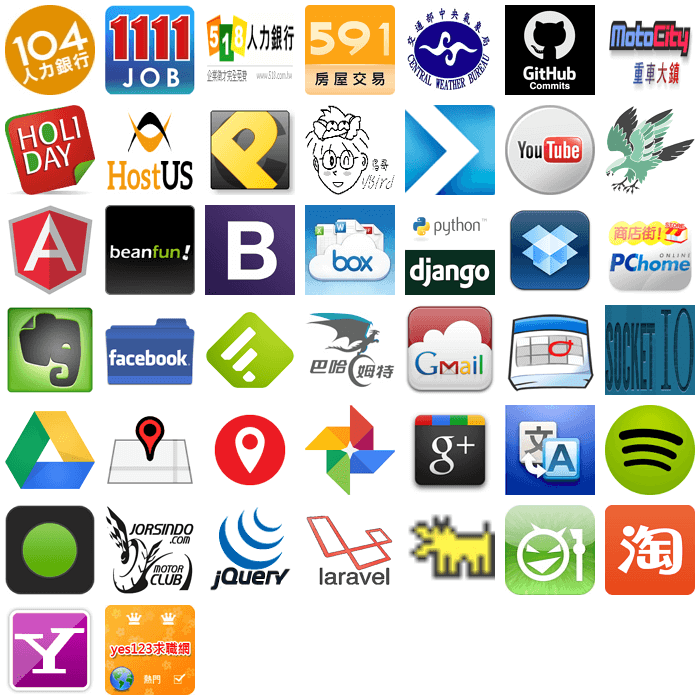
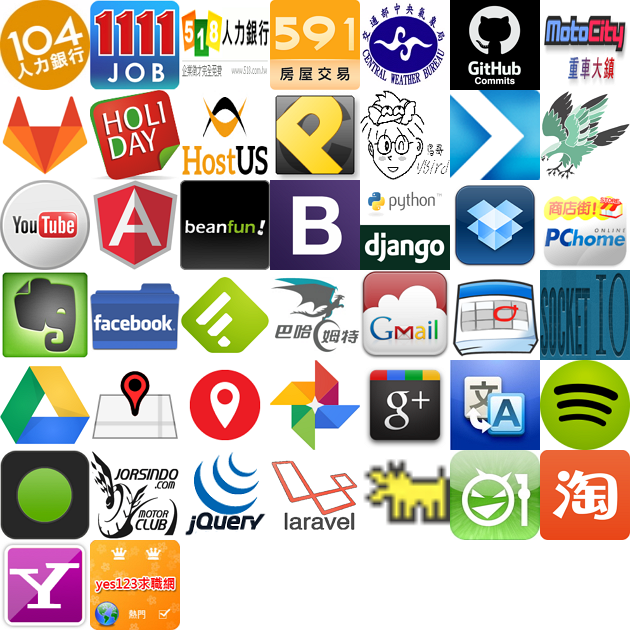
更新網址
css sprite
http://spritegen.website-performance.org/

diff --git a/css/icons.css b/css/icons.css
@@ -7,178 +7,177 @@
 }
 
 .sprite-104 {
-    background-position: -5px -5px;
+    background-position: 0 0;
 }
 
 .sprite-1111 {
-    background-position: -105px -5px;
+    background-position: -90px 0;
 }
 
 .sprite-518 {
-    background-position: -205px -5px;
+    background-position: -180px 0;
 }
 
 .sprite-591 {
-    background-position: -305px -5px;
+    background-position: -270px 0;
 }
 
 .sprite-CWB {
-    background-position: -405px -5px;
+    background-position: -360px 0;
 }
 
 .sprite-GitHub {
-    background-position: -505px -5px;
+    background-position: -450px 0;
+}
+
+.sprite-GitLab {
+    background-position: 0 -90px;
 }
 
 .sprite-Holiday {
-    background-position: -5px -105px;
+    background-position: -90px -90px;
 }
 
 .sprite-HostUS {
-    background-position: -105px -105px;
+    background-position: -180px -90px;
 }
 
 .sprite-PTT {
-    background-position: -205px -105px;
+    background-position: -270px -90px;
 }
 
 .sprite-VBird {
-    background-position: -305px -105px;
+    background-position: -360px -90px;
 }
 
 .sprite-VirusTotal {
-    background-position: -405px -105px;
+    background-position: -450px -90px;
 }
 
 .sprite-YouTube {
-    background-position: -505px -105px;
+    background-position: 0 -180px;
 }
 
 .sprite-angularjs {
-    background-position: -5px -205px;
+    background-position: -90px -180px;
 }
 
 .sprite-beanfun {
-    background-position: -105px -205px;
+    background-position: -180px -180px;
 }
 
 .sprite-bootstrap {
-    background-position: -205px -205px;
-}
-
-.sprite-box {
-    background-position: -305px -205px;
+    background-position: -270px -180px;
 }
 
 .sprite-django {
-    background-position: -405px -205px;
+    background-position: -360px -180px;
 }
 
 .sprite-dropbox {
-    background-position: -505px -205px;
+    background-position: -450px -180px;
 }
 
 .sprite-evernote {
-    background-position: -5px -305px;
+    background-position: 0 -270px;
 }
 
 .sprite-facebook {
-    background-position: -105px -305px;
+    background-position: -90px -270px;
 }
 
 .sprite-feedly {
-    background-position: -205px -305px;
+    background-position: -180px -270px;
 }
 
 .sprite-gamer {
-    background-position: -305px -305px;
+    background-position: -270px -270px;
 }
 
 .sprite-gmail {
-    background-position: -405px -305px;
+    background-position: -360px -270px;
 }
 
 .sprite-google-calendar {
-    background-position: -505px -305px;
+    background-position: -450px -270px;
 }
 
 .sprite-google-drive {
-    background-position: -5px -405px;
+    background-position: 0 -360px;
 }
 
 .sprite-google-map {
-    background-position: -105px -405px;
+    background-position: -90px -360px;
 }
 
 .sprite-google-map-lite {
-    background-position: -205px -405px;
+    background-position: -180px -360px;
 }
 
 .sprite-google-photo {
-    background-position: -305px -405px;
+    background-position: -270px -360px;
 }
 
 .sprite-google-plus {
-    background-position: -405px -405px;
+    background-position: -360px -360px;
 }
 
 .sprite-google-translate {
-    background-position: -505px -405px;
+    background-position: -450px -360px;
 }
 
 .sprite-imgur {
-    background-position: -5px -505px;
+    background-position: 0 -450px;
 }
 
 .sprite-jorsindo {
-    background-position: -105px -505px;
+    background-position: -90px -450px;
 }
 
 .sprite-jquery {
-    background-position: -205px -505px;
+    background-position: -180px -450px;
 }
 
 .sprite-laravel {
-    background-position: -305px -505px;
+    background-position: -270px -450px;
 }
 
 .sprite-luckydog {
-    background-position: -405px -505px;
+    background-position: -360px -450px;
 }
 
 .sprite-mobile01 {
-    background-position: -505px -505px;
+    background-position: -450px -450px;
 }
 
 .sprite-motocity {
-    background-position: -605px -5px;
+    background-position: -540px 0;
 }
 
 .sprite-phalcon {
-    background-position: -605px -105px;
+    background-position: -540px -90px;
 }
 
 .sprite-ruten {
-    background-position: -605px -205px;
+    background-position: -540px -180px;
 }
 
 .sprite-socketIO {
-    background-position: -605px -305px;
+    background-position: -540px -270px;
 }
 
 .sprite-spotify {
-    background-position: -605px -405px;
+    background-position: -540px -360px;
 }
 
 .sprite-taobao {
-    background-position: -605px -505px;
+    background-position: -540px -450px;
 }
 
 .sprite-yahoo {
-    background-position: -5px -605px;
+    background-position: 0 -540px;
 }
 
 .sprite-yes123 {
-    background-position: -105px -605px;
+    background-position: -90px -540px;
 }
-

diff --git a/index.html b/index.html
@@ -26,7 +26,6 @@
         <a href="http://www.ruten.com.tw/"><i class="sprite sprite-ruten"></i></a>
         <a href="https://tw.taobao.com/"><i class="sprite sprite-taobao"></i></a>
         <a href="https://www.dropbox.com/"><i class="sprite sprite-dropbox"></i></a>
-        <a href="https://www.box.com/"><i class="sprite sprite-box"></i></a>
         <a href="https://www.evernote.com/Home.action"><i class="sprite sprite-evernote"></i></a>
         <a href="https://www.virustotal.com/"><i class="sprite sprite-VirusTotal"></i></a>
         <a href="http://www.gamer.com.tw/"><i class="sprite sprite-gamer"></i></a>
@@ -45,6 +44,7 @@
         <a href="https://phalconphp.com/"><i class="sprite sprite-phalcon"></i></a>
         <a href="https://jquery.com/"><i class="sprite sprite-jquery"></i></a>
         <a href="https://github.com/"><i class="sprite sprite-GitHub"></i></a>
+        <a href="https://gitlab.com/"><i class="sprite sprite-GitLab"></i></a>
         <a href="http://v3.bootcss.com/"><i class="sprite sprite-bootstrap"></i></a>
         <a href="http://socket.io/"><i class="sprite sprite-socketIO"></i></a>
         <a href="http://forum.jorsindo.com/"><i class="sprite sprite-jorsindo"></i></a>
